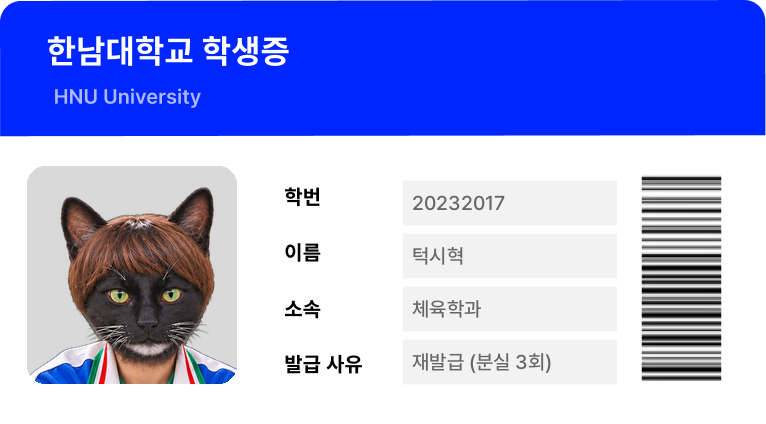
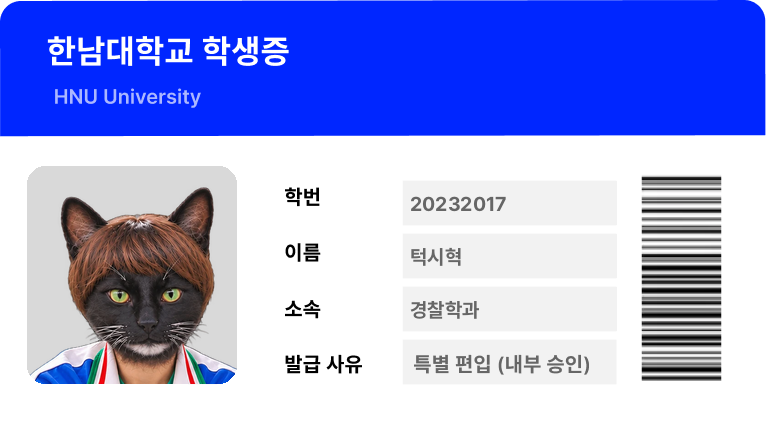
학생회관: 한남이가 먼저 말 걸기, 홍보물 이미지 적용, 말줄임 말풍선 제거 / 학생증 소속·발급 사유 수정
Claude-Session: https://claude.ai/code/session_01QyUschkezPNteRQgoBSBiz

diff --git a/src/data/hallScene.js b/src/data/hallScene.js
@@ -12,7 +12,6 @@ const move = (who, x, dur) => ({ move: who, x, dur })
 const cam = (o) => ({ cam: o })
 const sfx = (name) => ({ sfx: name })
 const prop = (id, what, o = {}) => (typeof what === 'string' ? { prop: id, do: what, ...o } : { prop: id, to: what, ...o })
-const bubble = (who, text, dur) => ({ bubble: who, text, dur })
 
 // 무대 준비 (중간부터 다시 시작할 때)
 const STAGE = [{ walkers: true }, show('hannam', { dur: 0 }), cam({ zoom: 1, x: 0, dur: 0 })]
@@ -33,7 +32,7 @@ export const HALL = {
   },
   // 소품 (x · bottom · w 는 인물과 같은 단위)
   props: {
-    flyers: { kind: 'flyers', x: 20, bottom: 30, w: 190 },
+    flyers: { src: `${H}flyer.webp`, x: 0, bottom: 330, w: 240 }, // 홍보물.png
     kimbap: { src: `${T}kimbap.webp`, x: 60, bottom: 380, w: 200 }, // 한남이 손 근처에서 등장
   },
   // 배경을 좌우로 오가는 학생들 / 한남이 앞을 지나가는 학생 두 명
@@ -44,24 +43,25 @@ export const HALL = {
   ],
   passersImgs: [`${H}npc2.webp`, `${H}npc3.webp`],
   // 미니게임 이미지
-  game: { bg: `${H}bg.webp`, host: `${H}hannam.webp`, npcs: [`${H}npc1.webp`, `${H}npc2.webp`, `${H}npc3.webp`] },
+  game: { bg: `${H}bg.webp`, host: `${H}hannam.webp`, flyer: `${H}flyer.webp`, npcs: [`${H}npc1.webp`, `${H}npc2.webp`, `${H}npc3.webp`] },
 
   lines: [
-    // ── SCENE 01. 다급한 한남이 ──
-    {
-      // 한남이 머리 위 대화 아이콘 → 누르면 카메라가 한남이 쪽으로 약하게 확대
-      tap: 'hannam',
-      before: [{ walkers: true }, show('hannam', { dur: 0.6 }), prop('flyers', 'show')],
-      after: [cam({ zoom: 1.1, on: 'hannam', dur: 0.9 })],
-    },
+    // ── SCENE 01. 다급한 한남이 ── (한남이가 먼저 말을 걺)
     {
       who: 'hannam',
       text: '안녕하세요! 학생회장 후보 한남이입니다. 공약 한번 읽어봐 주세요!',
-      // 학생 두 명이 앞을 지나가지만 받지 않음 · 홍보물 더미 강조
-      after: [{ reveal: 'hannam' }, { passers: true, dur: 2.3 }, prop('flyers', 'pulse')],
+      before: [{ walkers: true }, show('hannam', { dur: 0.6 }), cam({ zoom: 1.1, on: 'hannam', dur: 0.9 })],
+      // 학생 두 명이 앞을 지나가지만 받지 않음
+      after: [{ reveal: 'hannam' }, { passers: true, dur: 2.3 }],
     },
-    { who: 'hannam', text: '아, 벌써 시간이 이렇게 됐네. 아직 한참 남았는데...', after: [W(1), bubble('hannam', '…', 1.1)] },
-    { label: 'ask', who: 'me', text: '무슨 일 있으세요?' },
+    { who: 'hannam', text: '아, 벌써 시간이 이렇게 됐네. 아직 한참 남았는데...', after: [W(1)] },
+    {
+      label: 'ask',
+      // 다시 말을 걸었을 때는 여기서부터
+      setup: [{ walkers: true }, show('hannam', { dur: 0 }), cam({ zoom: 1.1, on: 'hannam', dur: 0 })],
+      who: 'me',
+      text: '무슨 일 있으세요?',
+    },
     { who: 'hannam', text: '아, 안녕하세요. 지금 학생회장 선거운동 중인데 점심시간 안에 홍보물을 나눠줘야 하거든요.' },
     { who: 'me', text: '많이 남았네요.' },
     {
@@ -77,7 +77,8 @@ export const HALL = {
       who: 'hannam',
       text: '정말요? 감사합니다! 학생들이 바빠서 홍보물을 잘 안 받아 가네요. 받으려는 학생들에게만 전달해 주시면 돼요.',
       // 홍보물 더미가 화면 가운데로 → 카메라가 조금 멀어짐
-      after: [prop('flyers', [0, 330], { scale: 1.4, dur: 0.8 }), W(0.3), prop('flyers', 'hide'), cam({ zoom: 1, x: 0, dur: 0.8 })],
+      // 홍보물이 화면 가운데에 나타났다가 사라짐 → 카메라가 조금 멀어짐
+      after: [prop('flyers', 'show', { dur: 0.4 }), W(0.9), prop('flyers', 'hide'), cam({ zoom: 1, x: 0, dur: 0.8 })],
       next: 'game',
     },
 
@@ -177,15 +178,7 @@ export const HALL = {
       label: 'no',
       who: 'hannam',
       text: '아, 괜찮습니다. 그래도 관심 가져주셔서 감사해요!',
-      after: [cam({ zoom: 1, x: 0, dur: 0.7 }), W(0.4), { leave: 'again' }],
-    },
-    // 다시 말을 걸었을 때: 대화 아이콘 → 도움 요청 대화부터
-    {
-      label: 'again',
-      setup: [{ walkers: true }, show('hannam', { dur: 0 }), prop('flyers', 'show', { dur: 0 })],
-      tap: 'hannam',
-      after: [cam({ zoom: 1.1, on: 'hannam', dur: 0.9 })],
-      next: 'ask',
+      after: [cam({ zoom: 1, x: 0, dur: 0.7 }), W(0.4), { leave: 'ask' }],
     },
   ],
 }

diff --git a/src/components/FlyerGame.jsx b/src/components/FlyerGame.jsx
@@ -30,7 +30,7 @@ const stageOf = (n) =>
 const pick = (arr) => arr[Math.floor(Math.random() * arr.length)]
 const fmt = (s) => `00:${String(Math.max(0, Math.ceil(s))).padStart(2, '0')}`
 
-export default function FlyerGame({ bg, hannam, npcs: npcImgs, onDone }) {
+export default function FlyerGame({ bg, hannam, npcs: npcImgs, flyer, onDone }) {
   const [phase, setPhase] = useState('intro') // intro · count · play · clear · fail
   const [count, setCount] = useState(null) // 3 · 2 · 1 · START!
   const [, setFrame] = useState(0)
@@ -271,7 +271,7 @@ export default function FlyerGame({ bg, hannam, npcs: npcImgs, onDone }) {
       {fx.map((f) =>
         f.kind === 'fly' ? (
           <span key={f.id} className="fg__fly" style={{ '--tx': `${f.x}px`, '--ty': `${f.y}px` }}>
-            <FlyerIcon />
+            <FlyerIcon src={flyer} />
           </span>
         ) : (
           <span key={f.id} className={`fg__pop fg__pop--${f.kind}`} style={{ left: f.x, top: f.y }}>
@@ -284,7 +284,7 @@ export default function FlyerGame({ bg, hannam, npcs: npcImgs, onDone }) {
       {phase !== 'intro' && (
         <div className="fg__hud">
           <span className={`fg__hud-box${pulse === 'got' ? ' is-pulse' : ''}`}>
-            <FlyerIcon /> {s.got} / {GOAL}
+            <FlyerIcon src={flyer} /> {s.got} / {GOAL}
           </span>
           <span className={`fg__hud-box fg__time${s.left <= 5 ? ' is-low' : ''}`}>{fmt(s.left)}</span>
           <span className={`fg__hud-box${pulse === 'miss' ? ' is-blink' : ''}`}>
@@ -296,6 +296,7 @@ export default function FlyerGame({ bg, hannam, npcs: npcImgs, onDone }) {
       {/* 안내창 */}
       {phase === 'intro' && (
         <div className="fg__panel">
+          {flyer && <img className="fg__poster" src={flyer} alt="한남이 선거 홍보물" />}
           <p className="fg__kicker">MINI GAME</p>
           <h2 className="fg__title">선거 홍보물 배부</h2>
           <p className="fg__goal">
@@ -395,7 +396,8 @@ function EndTalk({ lines, buttons, delay = 0 }) {
   )
 }
 
-function FlyerIcon() {
+function FlyerIcon({ src }) {
+  if (src) return <img className="fg__flyer" src={src} alt="" />
   return (
     <svg className="fg__flyer" viewBox="0 0 24 30" aria-hidden="true">
       <rect x="1" y="1" width="22" height="28" rx="2" fill="#fff" stroke="#0225ff" strokeWidth="2" />

diff --git a/src/data/story.js b/src/data/story.js
@@ -16,7 +16,7 @@ export const ITEMS = {
   'id-card': {
     name: '김시유 학생증',
     img: 'talk/id-siyu-v2.png',
-    desc: '11번 건물 앞 벤치에서 만난 김시유의 학생증.',
+    desc: '김시유의 학생증이다.',
   },
   'id-goeun': {
     name: '이고등 학생증',
@@ -26,7 +26,7 @@ export const ITEMS = {
   'id-sihyuk': {
     name: '턱시혁 학생증',
     img: 'talk/id-sihyuk.png',
-    desc: '린튼공원에서 통성명하며 받은 턱시혁의 학생증. 발급 사유가 수상하다.',
+    desc: '린튼공원에서 통성명하며 받은 턱시혁의 학생증.',
   },
   kimbap: {
     name: '참치김밥',

diff --git a/src/components/FlyerGame.css b/src/components/FlyerGame.css
@@ -408,3 +408,20 @@
     animation: none;
   }
 }
+
+/* 홍보물 이미지 */
+img.fg__flyer {
+  border: 1px solid #fff;
+  box-shadow: 0 2px 4px rgba(0, 0, 0, 0.25);
+}
+.fg__fly {
+  width: 46px;
+}
+.fg__poster {
+  display: block;
+  width: 110px;
+  margin: 0 auto 12px;
+  border: 3px solid #fff;
+  transform: rotate(-4deg);
+  box-shadow: 0 6px 14px rgba(0, 0, 0, 0.3);
+}

diff --git a/src/components/CastScene.jsx b/src/components/CastScene.jsx
@@ -632,6 +632,7 @@ export default function CastScene({ dialog, onClose, startAt }) {
             bg={BASE + dialog.game.bg}
             hannam={BASE + dialog.game.host}
             npcs={dialog.game.npcs.map((n) => BASE + n)}
+            flyer={dialog.game.flyer && BASE + dialog.game.flyer}
             onDone={(res) => gameResRef.current?.(res)}
           />
         )}
